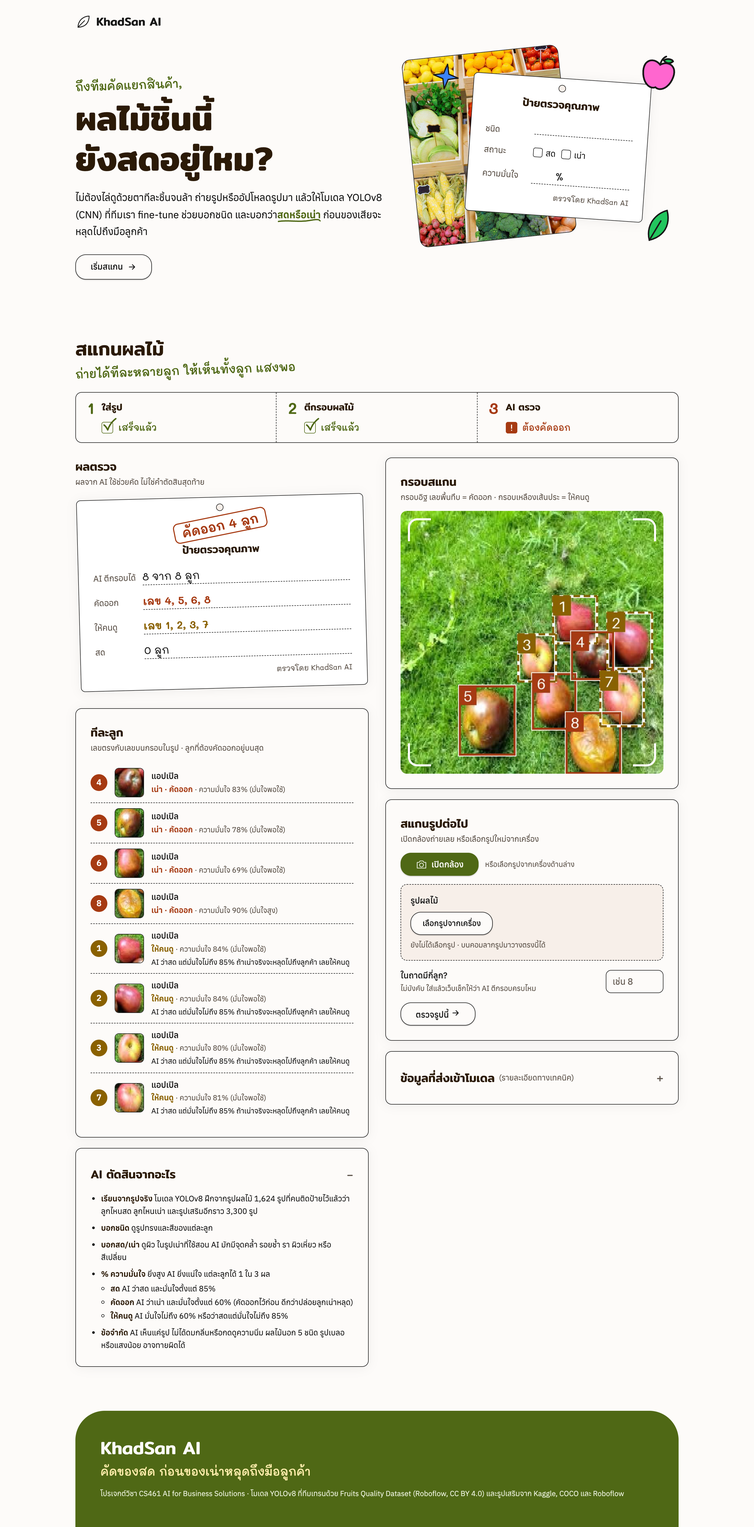
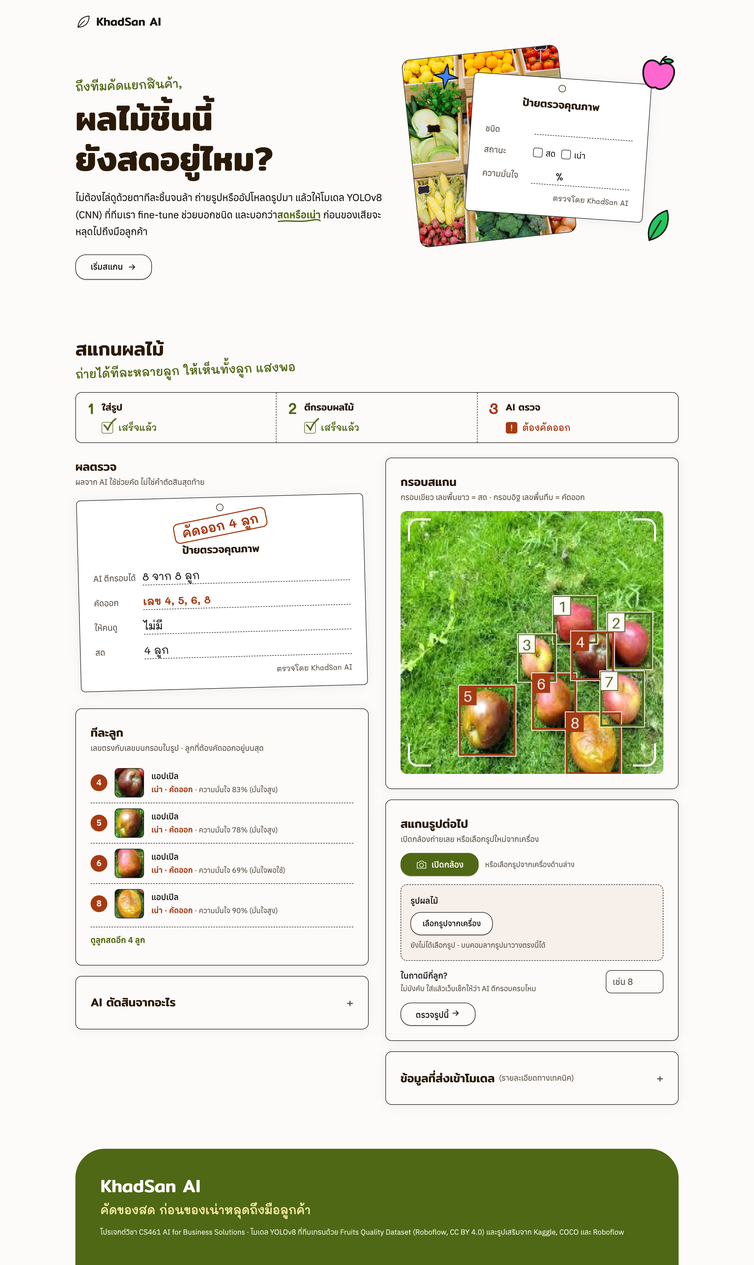
เกณฑ์สด 75 คัดออก 50 และเพิ่มผลสดรอยืนยัน

diff --git a/web/templates/index.html b/web/templates/index.html
@@ -35,7 +35,7 @@
 </div>
 {% endmacro %}
 
-{# ===== 1 ข้อในเช็กลิสต์ : state = done / bad / unsure / miss / extra / none / skip / error / "" , wait = ข้อความตอนกำลังทำ ===== #}
+{# ===== 1 ข้อในเช็กลิสต์ : state = done / bad / unsure / check / miss / extra / none / skip / error / "" , wait = ข้อความตอนกำลังทำ ===== #}
 {% macro step(num, title, sub, state, wait) %}
 <div class="step{% if state %} step-{{ state }}{% endif %}">
     <div class="step-num">{{ num }}</div>
@@ -49,6 +49,7 @@
             {%- if state == "done" %}เสร็จแล้ว{% endif -%}
             {%- if state == "bad" %}ต้องคัดออก{% endif -%}
             {%- if state == "unsure" %}ให้คนดู{% endif -%}
+            {%- if state == "check" %}รอยืนยัน{% endif -%}
             {%- if state == "miss" %}ตีกรอบไม่ครบ{% endif -%}
             {%- if state == "extra" %}กรอบเกิน{% endif -%}
             {%- if state == "none" %}ไม่พบผลไม้{% endif -%}
@@ -70,6 +71,7 @@
         <div class="fruit-state">
             {% if f.state == "good" %}<span class="fruit-state-good">สด</span>
             {% elif f.state == "bad" %}<span class="fruit-state-bad">เน่า · คัดออก</span>
+            {% elif f.state == "check" %}<span class="fruit-state-check">สด · รอยืนยัน</span>
             {% else %}<span class="fruit-state-unsure">ให้คนดู</span>{% endif %}
             <span class="fruit-conf">· ความมั่นใจ {{ f.conf }}% <span class="nowrap">({{ f.level }})</span></span>
         </div>
@@ -104,7 +106,7 @@
             {# ปิดกล้องแยกไปไว้ขวาสุด กันกดพลาดตอนจะกดสแกนสด #}
             <button class="pill cam-close" type="button">ปิดกล้อง</button>
         </div>
-        <div class="cam-note">สแกนสด = เล็งกล้องค้างไว้ กรอบจะขึ้นตามผลไม้ (กรอบเหลืองเส้นประ = ให้คนดู) · อยากได้รายละเอียดทีละลูก กด "ถ่าย" แล้วตรวจ</div>
+        <div class="cam-note">สแกนสด = เล็งกล้องค้างไว้ กรอบจะขึ้นตามผลไม้ (กรอบเขียวเส้นประ = สด รอยืนยัน · กรอบเหลืองเส้นประ = ให้คนดู) · อยากได้รายละเอียดทีละลูก กด "ถ่าย" แล้วตรวจ</div>
     </div>
     <div class="cam-msg" role="alert" hidden></div>
 
@@ -169,8 +171,8 @@
         {% set s2 = "done" %}
         {# กรอกจำนวนลูกไว้ แต่จำนวนกรอบไม่ตรง : ขั้นที่ 2 ขึ้น ! #}
         {% if summary.missing > 0 %}{% set s2 = "miss" %}{% elif summary.extra > 0 %}{% set s2 = "extra" %}{% endif %}
-        {# ขั้นที่ 3 บอกเรื่องสำคัญสุดก่อน : คัดออก -> ให้คนดู -> เสร็จ #}
-        {% if summary.bad > 0 %}{% set s3 = "bad" %}{% elif summary.unsure > 0 %}{% set s3 = "unsure" %}{% else %}{% set s3 = "done" %}{% endif %}
+        {# ขั้นที่ 3 บอกเรื่องสำคัญสุดก่อน : คัดออก -> ให้คนดู -> สดรอยืนยัน -> เสร็จ #}
+        {% if summary.bad > 0 %}{% set s3 = "bad" %}{% elif summary.unsure > 0 %}{% set s3 = "unsure" %}{% elif summary.check > 0 %}{% set s3 = "check" %}{% else %}{% set s3 = "done" %}{% endif %}
     {% endif %}
 {% elif error %}
     {# รูปใช้ไม่ได้ : ขั้น 2-3 บอกว่าไม่ได้ตรวจ #}
@@ -214,6 +216,8 @@
                     <div class="stamp stamp-rotten">คัดออก {{ summary.bad }} ลูก</div>
                     {% elif summary.unsure > 0 %}
                     <div class="stamp stamp-unsure">ให้คนดู {{ summary.unsure }} ลูก</div>
+                    {% elif summary.check > 0 %}
+                    <div class="stamp stamp-check">รอยืนยัน {{ summary.check }} ลูก</div>
                     {% else %}
                     <div class="stamp">สดทั้งหมด</div>
                     {% endif %}
@@ -225,6 +229,9 @@
                     {# เลขลูกเขียนแบบเดียวกับเลขบนกรอบในรูป #}
                     <div class="tag-row"><span class="tag-key">คัดออก</span>{% if summary.bad_nums %}<span class="tag-line tag-bad">เลข {{ summary.bad_nums|join(", ") }}</span>{% else %}<span class="tag-line">ไม่มี</span>{% endif %}</div>
                     <div class="tag-row"><span class="tag-key">ให้คนดู</span>{% if summary.unsure_nums %}<span class="tag-line tag-unsure">เลข {{ summary.unsure_nums|join(", ") }}</span>{% else %}<span class="tag-line">ไม่มี</span>{% endif %}</div>
+                    {% if summary.check > 0 %}
+                    <div class="tag-row"><span class="tag-key">รอยืนยัน</span><span class="tag-line tag-check">เลข {{ summary.check_nums|join(", ") }}</span></div>
+                    {% endif %}
                     <div class="tag-row"><span class="tag-key">สด</span><span class="tag-line">{{ summary.good }} ลูก</span></div>
                     {% endif %}
                     {# จำนวนไม่ตรง : แถวเตือนเด่นในป้าย #}
@@ -254,7 +261,7 @@
             <div class="tag-warn">ลูกที่ไม่มีกรอบ AI ไม่ได้ตรวจ{% if summary.total >= 6 %} ผลไม้เยอะหรือซ้อนกัน AI อาจตีกรอบไม่ครบ{% endif %} · ใส่จำนวนลูกตอนสแกน เว็บจะเช็กให้ว่าครบไหม</div>
             {% endif %}
             {# โปรแกรมอ่านหน้าจอจะอ่านสรุปนี้ก่อนรายการ #}
-            <div class="sr-only" id="summary-text">ผลตรวจ: AI ตีกรอบได้ {{ summary.total }}{% if summary.expected %} จาก {{ summary.expected }}{% endif %} ลูก{% if summary.missing > 0 %} ตรวจไม่ครบ {{ summary.missing }} ลูก{% endif %}{% if summary.extra > 0 %} กรอบเกิน {{ summary.extra }} กรอบ{% endif %} คัดออก {{ summary.bad }} ลูก ให้คนดู {{ summary.unsure }} ลูก สด {{ summary.good }} ลูก ลูกที่ไม่มีกรอบ AI ไม่ได้ตรวจ</div>
+            <div class="sr-only" id="summary-text">ผลตรวจ: AI ตีกรอบได้ {{ summary.total }}{% if summary.expected %} จาก {{ summary.expected }}{% endif %} ลูก{% if summary.missing > 0 %} ตรวจไม่ครบ {{ summary.missing }} ลูก{% endif %}{% if summary.extra > 0 %} กรอบเกิน {{ summary.extra }} กรอบ{% endif %} คัดออก {{ summary.bad }} ลูก ให้คนดู {{ summary.unsure }} ลูก สดรอยืนยัน {{ summary.check }} ลูก สด {{ summary.good }} ลูก ลูกที่ไม่มีกรอบ AI ไม่ได้ตรวจ</div>
             {# มือถือ : ทางลัดไปสแกนรูปต่อไป (หน้าไม่เจอผลไม้มีปุ่มถ่ายใหม่แล้ว) #}
             {% if summary.total > 0 %}<a class="jump-next" href="#next">สแกนรูปต่อไป ↓</a>{% endif %}
         </div>
@@ -284,17 +291,18 @@
         {% endif %}
 
         <!-- AI ตัดสินจากอะไร (พับไว้ เปิดเองเฉพาะตอนมีลูกให้คนดู หรือจำนวนกรอบไม่ตรง) -->
-        <details class="card r-why"{% if summary.unsure > 0 or summary.missing > 0 or summary.extra > 0 %} open{% endif %}>
+        <details class="card r-why"{% if summary.unsure > 0 or summary.check > 0 or summary.missing > 0 or summary.extra > 0 %} open{% endif %}>
             <summary class="card-title">AI ตัดสินจากอะไร</summary>
             <ul class="why-list">
                 <li><b>เรียนจากรูปจริง</b> โมเดล YOLOv8 ฝึกจากรูปผลไม้ 1,624 รูปที่คนติดป้ายไว้แล้วว่าลูกไหนสด ลูกไหนเน่า และรูปเสริมอีกราว 3,300 รูป</li>
                 <li><b>บอกชนิด</b> ดูรูปทรงและสีของแต่ละลูก</li>
                 <li><b>บอกสด/เน่า</b> ดูผิว ในรูปเน่าที่ใช้สอน AI มักมีจุดคล้ำ รอยช้ำ รา ผิวเหี่ยว หรือสีเปลี่ยน</li>
-                <li><b>% ความมั่นใจ</b> ยิ่งสูง AI ยิ่งแน่ใจ แต่ละลูกได้ 1 ใน 3 ผล
+                <li><b>% ความมั่นใจ</b> คือ AI แน่ใจในคำตอบของตัวเองแค่ไหน (ไม่ใช่สดกี่ %) แต่ละลูกได้ 1 ใน 4 ผล
                     <ul class="why-rules">
                         <li><b>สด</b> AI ว่าสด และมั่นใจตั้งแต่ {{ high_conf }}%</li>
+                        <li><b>สด · รอยืนยัน</b> AI ว่าสด มั่นใจ {{ low_conf }}–{{ high_conf - 1 }}% ให้คนยืนยันก่อนส่ง</li>
                         <li><b>คัดออก</b> AI ว่าเน่า และมั่นใจตั้งแต่ {{ low_conf }}% (คัดออกไว้ก่อน ดีกว่าปล่อยลูกเน่าหลุด)</li>
-                        <li><b>ให้คนดู</b> AI มั่นใจไม่ถึง {{ low_conf }}% หรือว่าสดแต่มั่นใจไม่ถึง {{ high_conf }}%</li>
+                        <li><b>ให้คนดู</b> AI มั่นใจไม่ถึง {{ low_conf }}% ไม่ว่าจะทายว่าสดหรือเน่า</li>
                     </ul>
                 </li>
                 <li><b>ข้อจำกัด</b> AI เห็นแค่รูป ไม่ได้ดมกลิ่นหรือกดดูความนิ่ม ผลไม้นอก 5 ชนิด รูปเบลอ หรือแสงน้อย อาจทายผิดได้</li>
@@ -311,6 +319,7 @@
             {% set legend = [] %}
             {% if summary.good > 0 %}{% set _ = legend.append("กรอบเขียว เลขพื้นขาว = สด") %}{% endif %}
             {% if summary.bad > 0 %}{% set _ = legend.append("กรอบอิฐ เลขพื้นทึบ = คัดออก") %}{% endif %}
+            {% if summary.check > 0 %}{% set _ = legend.append("กรอบเขียวเส้นประ = สด รอยืนยัน") %}{% endif %}
             {% if summary.unsure > 0 %}{% set _ = legend.append("กรอบเหลืองเส้นประ = ให้คนดู") %}{% endif %}
             <div class="card-sub">{% for l in legend %}<span class="nowrap">{{ l }}</span>{% if not loop.last %} · {% endif %}{% endfor %}</div>
             {% else %}<div class="card-sub">รูปที่ใส่เข้ามา</div>{% endif %}

diff --git a/web/static/style.css b/web/static/style.css
@@ -146,15 +146,18 @@ h1, h2, h3 {font-family: 'Mitr', sans-serif;}
 .tick-box img {position: absolute; left: -1px; bottom: 1px; width: 30px; height: 30px;}
 /* ติ๊ก = เสร็จ / ! บนช่องทึบ = เสร็จแต่มีลูกต้องจัดการ / กากบาท = error */
 .tick-ok, .tick-bang, .tick-x {display: none;}
-.step-done .tick-ok, .step-error .tick-x, .step-bad .tick-bang, .step-unsure .tick-bang, .step-miss .tick-bang, .step-extra .tick-bang {display: inline;}
+.step-done .tick-ok, .step-error .tick-x, .step-bad .tick-bang, .step-unsure .tick-bang, .step-check .tick-bang, .step-miss .tick-bang, .step-extra .tick-bang {display: inline;}
 /* ! กับกากบาท อยู่ในช่องพอดี ไม่ล้น */
-.step-error .tick-box img, .step-bad .tick-box img, .step-unsure .tick-box img, .step-miss .tick-box img, .step-extra .tick-box img {left: 1px; bottom: 1px; width: 18px; height: 18px;}
+.step-error .tick-box img, .step-bad .tick-box img, .step-unsure .tick-box img, .step-check .tick-box img, .step-miss .tick-box img, .step-extra .tick-box img {left: 1px; bottom: 1px; width: 18px; height: 18px;}
 
 .step-done .step-num, .step-done .mark {color: var(--olive);}
 .step-done .tick-box {border-color: var(--olive);}
 .step-none .tick-box, .step-skip .tick-box {border-style: dashed; border-color: var(--muted);}
 /* ให้คนดู / ตีกรอบไม่ครบ / กรอบเกิน : ช่องสีเหลืองอำพัน + ! */
 .step-unsure .tick-box, .step-miss .tick-box, .step-extra .tick-box {background: var(--amber); border-color: var(--amber);}
+/* สดรอยืนยัน : ช่องเขียว + ! (AI ว่าสด รอคนยืนยัน) */
+.step-check .tick-box {background: var(--olive); border-color: var(--olive);}
+.step-check .step-num, .step-check .mark {color: var(--olive);}
 .step-unsure .step-num, .step-unsure .mark, .step-miss .step-num, .step-miss .mark, .step-extra .step-num, .step-extra .mark {color: var(--amber);}
 /* ยังไม่เริ่ม : ช่องเป็นวงเส้นประจางๆ จะได้ไม่ดูเหมือนช่องให้กดติ๊ก */
 .step:not([class*="step-"]) .tick-box {border-style: dashed; border-color: var(--muted); border-radius: 50%;}
@@ -392,6 +395,8 @@ details.card > summary:focus-visible {outline: 2px solid var(--olive); outline-o
 .stamp-rotten {color: var(--rotten); border-color: var(--rotten);}
 /* ตราปั๊ม "ให้คนดู" / "ตรวจไม่ครบ" : เหลืองอำพัน เส้นประ */
 .stamp-unsure {color: var(--amber); border-color: var(--amber); border-style: dashed;}
+/* ตราปั๊ม "สดรอยืนยัน" : เขียว เส้นประ */
+.stamp-check {color: var(--olive); border-color: var(--olive); border-style: dashed;}
 /* ตราปั๊ม "ไม่เจอผลไม้" : หมึกดำ เส้นคู่ (ไม่ให้หน้าตาเหมือน "ให้คนดู") */
 .stamp-none {color: var(--ink); border: 4px double var(--ink);}
 /* ป้ายผลตรวจ : ป้ายคือตัวผลเอง ไม่ต้องมีการ์ดครอบอีกชั้น */
@@ -412,6 +417,7 @@ details.card > summary:focus-visible {outline: 2px solid var(--olive); outline-o
 .tag-warn {margin-top: 10px; color: var(--muted); font-size: 15px;}
 .tag-bad {color: var(--rotten); font-weight: 600;}   /* เลขลูกที่ต้องคัดออก */
 .tag-unsure {color: var(--amber); font-weight: 600;}   /* เลขลูกที่ให้คนดู */
+.tag-check {color: var(--olive); font-weight: 600;}    /* เลขลูกที่สดรอยืนยัน */
 /* ทางลัดสแกนรูปต่อไป (มือถือ) */
 .jump-next {display: none;}
 
@@ -480,7 +486,7 @@ details.card > summary:focus-visible {outline: 2px solid var(--olive); outline-o
     .mark {font-size: 14px; line-height: 1.3; flex-direction: column; align-items: flex-start; gap: 4px; margin-top: 6px;}
     .tick-box {width: 18px; height: 18px;}
     .tick-box img {width: 24px; height: 24px;}
-    .step-error .tick-box img, .step-bad .tick-box img, .step-unsure .tick-box img, .step-miss .tick-box img, .step-extra .tick-box img {width: 14px; height: 14px;}
+    .step-error .tick-box img, .step-bad .tick-box img, .step-unsure .tick-box img, .step-check .tick-box img, .step-miss .tick-box img, .step-extra .tick-box img {width: 14px; height: 14px;}
     /* ข้อความกำลังทำ บรรทัดเดียว หน้าไม่กระตุก */
     .mark-wait {font-size: 14px; gap: 6px; white-space: nowrap;}
     .mark-text {white-space: nowrap;}
@@ -535,6 +541,9 @@ details.card > summary:focus-visible {outline: 2px solid var(--olive); outline-o
 .fruit-state-good {color: var(--olive); font-weight: 600;}
 .fruit-state-bad {color: var(--rotten); font-weight: 600;}
 .fruit-state-unsure {color: var(--amber); font-weight: 600;}
+/* สดรอยืนยัน : เลขวงครีมขอบเขียวเส้นประ */
+.fruit-num.check {background: var(--paper); color: var(--olive); border: 2px dashed var(--olive);}
+.fruit-state-check {color: var(--olive); font-weight: 600;}
 /* รูปผลตรวจ : สูงตามรูป ไม่เกิน 560px */
 .frame.has-result {height: auto;}
 .frame.has-result .frame-photo {height: auto; max-height: 560px;}

diff --git a/web/static/scan.js b/web/static/scan.js
@@ -403,10 +403,11 @@ var cssColors = getComputedStyle(page);
 var liveColors = {
     good: cssColors.getPropertyValue("--olive").trim(),
     bad: cssColors.getPropertyValue("--rotten").trim(),
-    unsure: cssColors.getPropertyValue("--amber").trim()
+    unsure: cssColors.getPropertyValue("--amber").trim(),
+    check: cssColors.getPropertyValue("--olive").trim()   // สดรอยืนยัน = เขียวเส้นประ
 };
 var paperColor = cssColors.getPropertyValue("--paper").trim();
-var liveWords = { good: "สด", bad: "เน่า", unsure: "ให้คนดู" };
+var liveWords = { good: "สด", check: "รอยืนยัน", bad: "เน่า", unsure: "ให้คนดู" };
 
 liveBtn.addEventListener("click", function () {
     if (liveOn) {
@@ -521,7 +522,7 @@ function drawLiveBoxes(boxes) {
         ctx.lineWidth = 3;
         ctx.strokeStyle = liveColors[b.state];
         // ให้คนดู : เส้นประ
-        if (b.state == "unsure") {
+        if (b.state == "unsure" || b.state == "check") {
             ctx.setLineDash([10, 6]);
         }
         ctx.strokeRect(x, y, bw, bh);
@@ -592,6 +593,9 @@ function showLiveInfo(result) {
         text = "เห็น " + result.total + " ลูก";
         if (result.good > 0) {
             text = text + " · สด " + result.good;
+        }
+        if (result.check > 0) {
+            text = text + " · รอยืนยัน " + result.check;
         }
         if (result.bad > 0) {
             text = text + " · เน่า " + result.bad;

diff --git a/web/app.py b/web/app.py
@@ -18,8 +18,8 @@ CLASS_FILE = os.path.join(folder, "models", "class_info.json")
 MAX_MB = 10             # กันคนอัปรูปใหญ่เกิน
 MAX_PIXELS = 50000000   # กันรูปพิกเซลเยอะผิดปกติ (กินแรม)
 CONF_MIN = 0.40         # มั่นใจต่ำกว่านี้ไม่นับ (0.25 เคยตีกรอบหน้าคน)
-LOW_CONF = 60           # มั่นใจต่ำกว่านี้ (%) = "ให้คนดู"
-HIGH_CONF = 85          # ว่าสดต้องมั่นใจตั้งแต่นี้ (%) ไม่ถึง = "ให้คนดู"
+LOW_CONF = 50           # มั่นใจต่ำกว่านี้ (%) = "ให้คนดู" (AI ไม่แน่ใจเลย)
+HIGH_CONF = 75          # ว่าสดต้องมั่นใจตั้งแต่นี้ (%) ไม่ถึง = "สด · รอยืนยัน" ให้คนยืนยันก่อนส่ง
 MAX_FRUITS = 30         # โชว์รายการไม่เกินกี่ลูก
 MAX_COUNT = 300         # ช่อง "ในถาดมีกี่ลูก" รับได้ไม่เกินนี้
 SAME_FRUIT = 0.5        # กรอบทับกันเกินครึ่ง = ลูกเดียวกัน
@@ -137,11 +137,11 @@ def detect(img):
         conf = float(result.boxes.conf[i]) * 100
         xyxy = result.boxes.xyxy[i]
         box = [float(xyxy[0]), float(xyxy[1]), float(xyxy[2]), float(xyxy[3])]
-        # 3 ผล : good = สด / bad = คัดออก / unsure = ให้คนดู
+        # 4 ผล : good = สด / check = สด · รอยืนยัน (ให้คนยืนยันก่อนส่ง) / bad = คัดออก / unsure = ให้คนดู
         if conf < LOW_CONF:
-            state = "unsure"
+            state = "unsure"   # AI ไม่แน่ใจเลย
         elif quality == "Good" and conf < HIGH_CONF:
-            state = "unsure"   # ว่าสดแต่มั่นใจไม่สูง ถ้าจริงๆ เน่าจะหลุดถึงลูกค้า
+            state = "check"    # ว่าสดแต่มั่นใจไม่สูง ถ้าจริงๆ เน่าจะหลุดถึงลูกค้า
         elif quality == "Good":
             state = "good"
         else:
@@ -191,6 +191,8 @@ def box_color(f):
         return COLOR_GOOD
     if f["state"] == "bad":
         return COLOR_BAD
+    if f["state"] == "check":
+        return COLOR_GOOD      # สดรอยืนยัน = เขียว แต่เส้นประ
     return COLOR_UNSURE
 
 
@@ -210,22 +212,22 @@ def draw_boxes(img, fruits):
     for f in order:
         x1, y1, x2, y2 = f["box"]
         draw.rectangle([x1 - ring, y1 - ring, x2 + ring, y2 + ring], outline=COLOR_PAPER, width=ring)
-        if f["state"] == "unsure":
-            # ให้คนดู = เส้นประเทาบนพื้นครีม
+        if f["state"] == "unsure" or f["state"] == "check":
+            # ให้คนดู / สดรอยืนยัน = เส้นประบนพื้นครีม
             draw.rectangle([x1, y1, x2, y2], outline=COLOR_PAPER, width=line)
             dashed_rect(draw, [x1, y1, x2, y2], box_color(f), line)
         else:
             draw.rectangle([x1, y1, x2, y2], outline=box_color(f), width=line)
 
     # รอบ 2 : ป้ายเลข (วาดทีหลัง จะไม่โดนกรอบอื่นทับ)
-    # สด = ป้ายครีมเลขเขียว / อื่นๆ = ป้ายทึบเลขครีม (คนแยกสีไม่ออกก็ดูออก)
+    # สด / สดรอยืนยัน = ป้ายครีมเลขเขียว / อื่นๆ = ป้ายทึบเลขครีม (คนแยกสีไม่ออกก็ดูออก)
     for f in order:
         x1 = f["box"][0]
         y1 = f["box"][1]
         label = str(f["num"])
         w = draw.textlength(label, font=font)
         tag = [x1, y1, x1 + w + font_size * 0.6, y1 + font_size * 1.3]
-        if f["state"] == "good":
+        if f["state"] == "good" or f["state"] == "check":
             draw.rectangle(tag, fill=COLOR_PAPER, outline=COLOR_GOOD, width=ring)
             text_color = COLOR_GOOD
         else:
@@ -290,10 +292,9 @@ def add_details(img, fruits):
                 lean = "สด"
             else:
                 lean = "เน่า"
-            if f["conf"] < LOW_CONF:
-                f["reason"] = "AI เอนไปทาง" + lean + " แต่มั่นใจไม่ถึง " + str(LOW_CONF) + "% ให้คนตัดสิน"
-            else:
-                f["reason"] = "AI ว่าสด แต่มั่นใจไม่ถึง " + str(HIGH_CONF) + "% ถ้าเน่าจริงจะหลุดไปถึงลูกค้า เลยให้คนดู"
+            f["reason"] = "AI เอนไปทาง" + lean + " แต่มั่นใจไม่ถึง " + str(LOW_CONF) + "% ให้คนตัดสิน"
+        if f["state"] == "check":
+            f["reason"] = "AI ว่าสด แต่มั่นใจไม่ถึง " + str(HIGH_CONF) + "% ให้คนยืนยันก่อนส่ง ถ้าเน่าจริงจะได้ไม่หลุดถึงลูกค้า"
 
         # สิ่งที่อาจทำให้ AI มั่นใจน้อยลง
         notes = []
@@ -311,16 +312,18 @@ def add_details(img, fruits):
         f["notes"] = notes
 
 
-# นับสด / คัดออก / ให้คนดู และจดเลขลูกของแต่ละกลุ่ม
+# นับสด / สดรอยืนยัน / คัดออก / ให้คนดู และจดเลขลูกของแต่ละกลุ่ม
 def count_states(fruits):
-    summary = {"total": len(fruits), "good": 0, "bad": 0, "unsure": 0,
-               "bad_nums": [], "unsure_nums": []}
+    summary = {"total": len(fruits), "good": 0, "check": 0, "bad": 0, "unsure": 0,
+               "bad_nums": [], "unsure_nums": [], "check_nums": []}
     for f in fruits:
         summary[f["state"]] = summary[f["state"]] + 1
         if f["state"] == "bad":
             summary["bad_nums"].append(str(f["num"]))
         if f["state"] == "unsure":
             summary["unsure_nums"].append(str(f["num"]))
+        if f["state"] == "check":
+            summary["check_nums"].append(str(f["num"]))
     # เน่ากี่ % ของทั้งถาด
     summary["bad_percent"] = 0
     if summary["total"] > 0:
@@ -352,13 +355,15 @@ def compare_count(summary, count):
         summary["extra"] = summary["total"] - count
 
 
-# เรียงรายการ : คัดออก → ให้คนดู → สด (เลขลูกไม่เปลี่ยน)
+# เรียงรายการ : คัดออก → ให้คนดู → สดรอยืนยัน → สด (เลขลูกไม่เปลี่ยน)
 def list_order(f):
     if f["state"] == "bad":
         return 0
     if f["state"] == "unsure":
         return 1
-    return 2
+    if f["state"] == "check":
+        return 2
+    return 3
 
 
 # ===== หน้าเว็บ =====
@@ -443,7 +448,7 @@ def live():
                       "thai": f["thai"], "state": f["state"], "conf": f["conf"]})
     summary = count_states(fruits)
     return jsonify({"ok": True, "boxes": boxes, "total": summary["total"],
-                    "good": summary["good"], "bad": summary["bad"], "unsure": summary["unsure"]})
+                    "good": summary["good"], "check": summary["check"], "bad": summary["bad"], "unsure": summary["unsure"]})
 
 
 # ไฟล์ใหญ่เกิน MAX_MB

diff --git a/README.md b/README.md
@@ -36,7 +36,7 @@
 โมเดล YOLOv8n (web/models/best_detect.pt) ── ตีกรอบ + บอกคลาส เช่น Orange_Bad
       │
       ▼
-หน้าเว็บ : รูปตีกรอบ (เขียว = สด / อิฐ = คัดออก / เหลืองเส้นประ = ให้คนดู) + รายการทีละลูก + ป้ายตรวจคุณภาพ
+หน้าเว็บ : รูปตีกรอบ (เขียว = สด / เขียวเส้นประ = สด รอยืนยัน / อิฐ = คัดออก / เหลืองเส้นประ = ให้คนดู) + รายการทีละลูก + ป้ายตรวจคุณภาพ
 ```
 
 - โมเดลเป็น **YOLOv8n** (Object Detection) ของ Ultralytics ทีมเอามา fine-tune เองบน Google Colab
@@ -170,7 +170,7 @@
   กล้วยกับส้มได้ดี (88–95%) แต่มะนาวเน่าถูก 4/65 (ส่วนใหญ่โดนทายเป็นส้ม) และทับทิมเน่าถูก 6/97
   แปลว่าโมเดลยังใช้กับรูปจริงทั่วไปได้ไม่ดี โดยเฉพาะผลไม้เน่าที่สีเปลี่ยนไปจนดูเป็นผลไม้อื่น รายละเอียดใน `round3/team_collected_summary.md`
 - **เว็บใช้ 11** (Val mAP50 สูงสุดในรอบ 3 และผ่านเกณฑ์ที่ทีมตั้ง : Test F1 ไม่ตก, รูปแหล่งอื่นไม่แย่ลง, ส้มเน่าดีขึ้น, ลูกเน่าที่บอกว่าสดไม่เพิ่ม)
-- วัดค่าของเว็บกับ 11 บน test : ความมั่นใจขั้นต่ำ 0.40 ทำให้เจอผลไม้น้อยลง 3 จาก 1,055 ลูก / ลูกสดที่ทายถูก 77% มั่นใจไม่ถึง 85% (ขึ้น "ให้คนดู") / ลูกเน่าที่โดนทายว่าสด 9 ลูก เว็บเตือนให้ดูอีกทีครบทั้ง 9 ลูก
+- วัดค่าของเว็บกับ 11 บน test : ความมั่นใจขั้นต่ำ 0.40 ทำให้เจอผลไม้น้อยลง 3 จาก 1,055 ลูก / เกณฑ์ตอนนี้ (สด 75% / คัดออก 50%) วัดกับลูกที่จับคู่กับเฉลยได้ 1,040 ลูก : ลูกสดจริงขึ้น "สด" 69.9% และ "สด · รอยืนยัน" 26.7% / ลูกเน่าจริงขึ้น "คัดออก" 96.4% และหลุดเป็น "สด" 3 ลูก (0.7%) · กับรูปที่ทีมเก็บเอง (ยังไม่เคยเทรน) ลูกเน่าหลุดเป็น "สด" 11.7% ยังต้องเทรนรอบ 4
 
 **รอบ 4 : เตรียมข้อมูลไว้แล้ว ยังไม่ได้เทรน**
 
@@ -264,18 +264,20 @@ python app.py
 - ตีกรอบเกิน : ตรา "กรอบเกิน N กรอบ" (อาจตีกรอบซ้อนลูกเดียวกัน)
 - ไม่ใส่ : ทำงานเหมือนเดิม ใต้ป้ายเตือนสั้นๆ ว่าลูกที่ไม่มีกรอบ AI ไม่ได้ตรวจ
 
-หน้าผลตรวจจะมีรูปที่ตีกรอบทุกลูกพร้อมเลขกำกับ มีป้ายตรวจคุณภาพบอกว่า AI ตีกรอบได้กี่ลูก (จากกี่ลูก ถ้าใส่จำนวนไว้) ลูกเลขไหนต้องคัดออก ลูกเลขไหนให้คนดู และสดกี่ลูก
+หน้าผลตรวจจะมีรูปที่ตีกรอบทุกลูกพร้อมเลขกำกับ มีป้ายตรวจคุณภาพบอกว่า AI ตีกรอบได้กี่ลูก (จากกี่ลูก ถ้าใส่จำนวนไว้) ลูกเลขไหนต้องคัดออก ลูกเลขไหนให้คนดู ลูกเลขไหนรอยืนยัน และสดกี่ลูก
 ถ้าไม่เจอผลไม้เลย ใต้ป้ายจะบอกวิธีถ่ายใหม่พร้อมปุ่มถ่ายใหม่
 ข้างล่างเป็นรายการทีละลูก บอกชนิด สถานะ และ % ความมั่นใจ ลูกเน่าขึ้นก่อน (แสดงไม่เกิน 30 ลูก)
 เลขกำกับเรียงทีละแถว บนลงล่าง ซ้ายไปขวา เหมือนอ่านหนังสือ
 
-แต่ละลูกได้ 1 ใน 3 ผล ตัดสินจากความมั่นใจของโมเดล (ค่าพวกนี้ตั้งไว้ใน `web/app.py`)
-- **สด** : ทายว่าสด และมั่นใจตั้งแต่ 85% (`HIGH_CONF`) กรอบเขียวเส้นทึบ
-- **คัดออก** : ทายว่าเน่า และมั่นใจตั้งแต่ 60% (`LOW_CONF`) กรอบสีอิฐ คัดออกไว้ก่อน ดีกว่าปล่อยลูกเน่าหลุด
-- **ให้คนดู** : มั่นใจไม่ถึง 60% หรือทายว่าสดแต่มั่นใจไม่ถึง 85% กรอบเหลืองเส้นประ เพราะลูกที่บอกว่าสดแต่จริงๆ เน่า คือลูกที่จะหลุดไปถึงลูกค้า
+แต่ละลูกได้ 1 ใน 4 ผล ตัดสินจากความมั่นใจของโมเดล (ค่าพวกนี้ตั้งไว้ใน `web/app.py`)
+% ความมั่นใจ คือ AI แน่ใจในคำตอบของตัวเองแค่ไหน ไม่ได้แปลว่าสดกี่ %
+- **สด** : ทายว่าสด และมั่นใจตั้งแต่ 75% (`HIGH_CONF`) กรอบเขียวเส้นทึบ
+- **สด · รอยืนยัน** : ทายว่าสด มั่นใจ 50-74% กรอบเขียวเส้นประ ให้คนยืนยันก่อนส่ง เพราะลูกที่บอกว่าสดแต่จริงๆ เน่า คือลูกที่จะหลุดไปถึงลูกค้า
+- **คัดออก** : ทายว่าเน่า และมั่นใจตั้งแต่ 50% (`LOW_CONF`) กรอบสีอิฐ คัดออกไว้ก่อน ดีกว่าปล่อยลูกเน่าหลุด
+- **ให้คนดู** : มั่นใจไม่ถึง 50% ไม่ว่าจะทายว่าสดหรือเน่า กรอบเหลืองเส้นประ
 - ต่ำกว่า 40% ไม่นับว่าเจอผลไม้ ไม่ตีกรอบ (`CONF_MIN`)
 
-ลูกสดใช้ป้ายเลขพื้นขาว ลูกอื่นใช้ป้ายเลขพื้นทึบ และลูกที่ให้คนดูใช้กรอบเส้นประ คนที่แยกสีไม่ออกก็ยังดูออก
+ลูกสดและสดรอยืนยันใช้ป้ายเลขพื้นขาว ลูกอื่นใช้ป้ายเลขพื้นทึบ และลูกที่ต้องดูอีกทีใช้กรอบเส้นประ คนที่แยกสีไม่ออกก็ยังดูออก
 ถ้าผลไม้ลูกเดียวกันโดนตีกรอบซ้อนกันหลายชนิด เว็บจะเก็บไว้กรอบเดียว ตัวเลขนับจะได้ไม่เกินจริง
 
 ถ่ายให้เห็นผลไม้ทั้งลูกและแสงพอ ถ้าเป็นผลไม้ชนิดอื่นนอก 5 ชนิดนี้ โมเดลอาจทายผิดได้

diff --git a/docs/run-web.md b/docs/run-web.md
@@ -98,7 +98,8 @@ python app.py
 |---|---|
 | เลือกรูปผลไม้ 1 ลูก แล้วกด "ตรวจเลย" | ขั้นตอน 1-2-3 ติ๊กทีละขั้น แล้วขึ้นป้ายตรวจ รูปมีกรอบ และรายการทีละลูก |
 | รูปที่มีหลายลูก มีทั้งสดและเน่า | ตรา "คัดออก N ลูก" สีอิฐ เลขลูกเน่าขึ้นในแถว "คัดออก" ขั้นที่ 3 ขึ้น "ต้องคัดออก" |
-| รูปที่มีลูกที่ AI ไม่มั่นใจ (เช่น กองมะนาว) | ตรา "ให้คนดู N ลูก" กรอบเหลืองเส้นประ ใต้ป้ายมีคำเตือนว่าลูกที่ไม่มีกรอบ AI ไม่ได้ตรวจ |
+| รูปผลไม้สดในลังหรือถุง (AI ว่าสดแต่มั่นใจไม่สูง) | ตรา "รอยืนยัน N ลูก" กรอบเขียวเส้นประ |
+| รูปที่มีลูกที่ AI ไม่มั่นใจเลย (ต่ำกว่า 50%) | ตรา "ให้คนดู N ลูก" กรอบเหลืองเส้นประ |
 | ใส่ "ในถาดมีกี่ลูก?" มากกว่าที่ AI ตีกรอบได้ | ตรา "ตรวจไม่ครบ N ลูก" ขั้นที่ 2 ขึ้น ! ในป้ายมีแถว "ไม่มีกรอบ" |
 | ใส่ "ในถาดมีกี่ลูก?" น้อยกว่าจำนวนกรอบ | ตรา "กรอบเกิน N กรอบ" ขั้นที่ 2 ขึ้น ! |
 | บนคอม ลากรูปมาวางบนช่อง "รูปผลไม้" หรือก๊อปรูปแล้วกด Ctrl+V / ⌘V | ช่องขึ้นขอบเขียวตอนลาก รูปตัวอย่างขึ้น ปุ่มตรวจเป็นสีเขียว |
@@ -171,8 +172,8 @@ cloudflared tunnel --url http://localhost:7860
 |---|---|---|
 | `MAX_MB` | 10 | ขนาดไฟล์ใหญ่สุดที่รับ (MB) |
 | `CONF_MIN` | 0.40 | ความมั่นใจต่ำกว่านี้ไม่นับว่าเจอผลไม้ |
-| `LOW_CONF` | 60 | ต่ำกว่านี้ (%) ขึ้น "ให้คนดู" ทายว่าเน่าตั้งแต่นี้ขึ้นไป = คัดออก |
-| `HIGH_CONF` | 85 | ลูกที่ว่าสดแต่ต่ำกว่านี้ (%) ขึ้น "ให้คนดู" |
+| `LOW_CONF` | 50 | ต่ำกว่านี้ (%) ขึ้น "ให้คนดู" ทายว่าเน่าตั้งแต่นี้ขึ้นไป = คัดออก |
+| `HIGH_CONF` | 75 | ลูกที่ว่าสดแต่ต่ำกว่านี้ (%) ขึ้น "สด · รอยืนยัน" (กรอบเขียวเส้นประ) |
 | `MAX_FRUITS` | 30 | รายการทีละลูกโชว์ไม่เกินกี่ลูก |
 
 เปลี่ยนโมเดล : เอา `best_detect.pt` กับ `class_info.json` ตัวใหม่ไปทับใน `web/models/` แล้วเปิดเว็บใหม่
